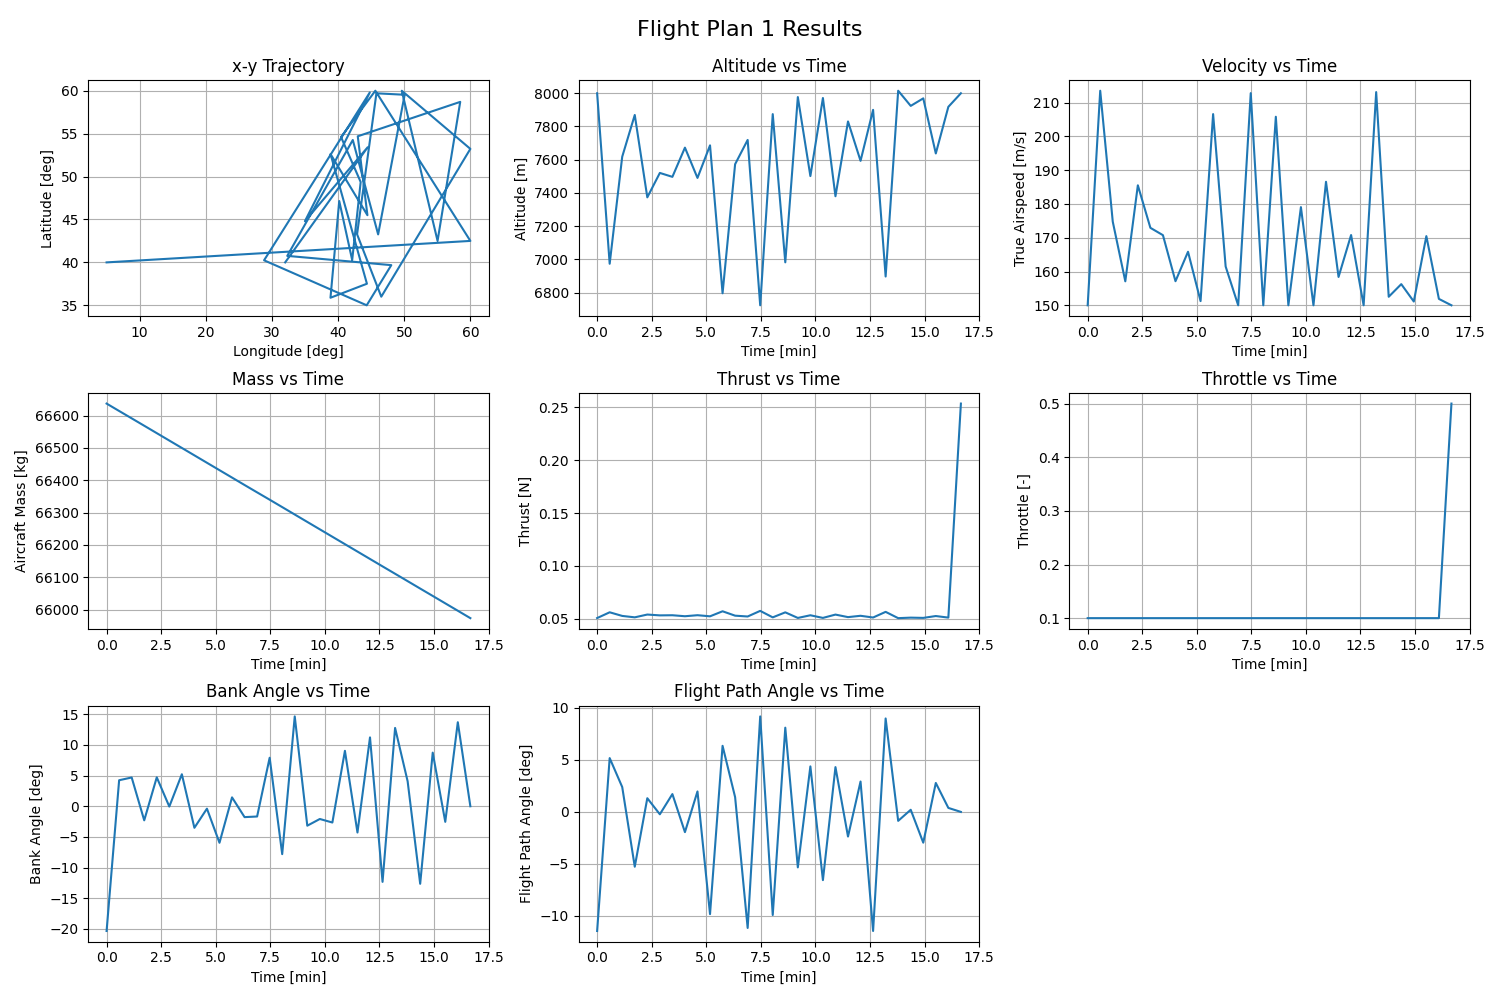
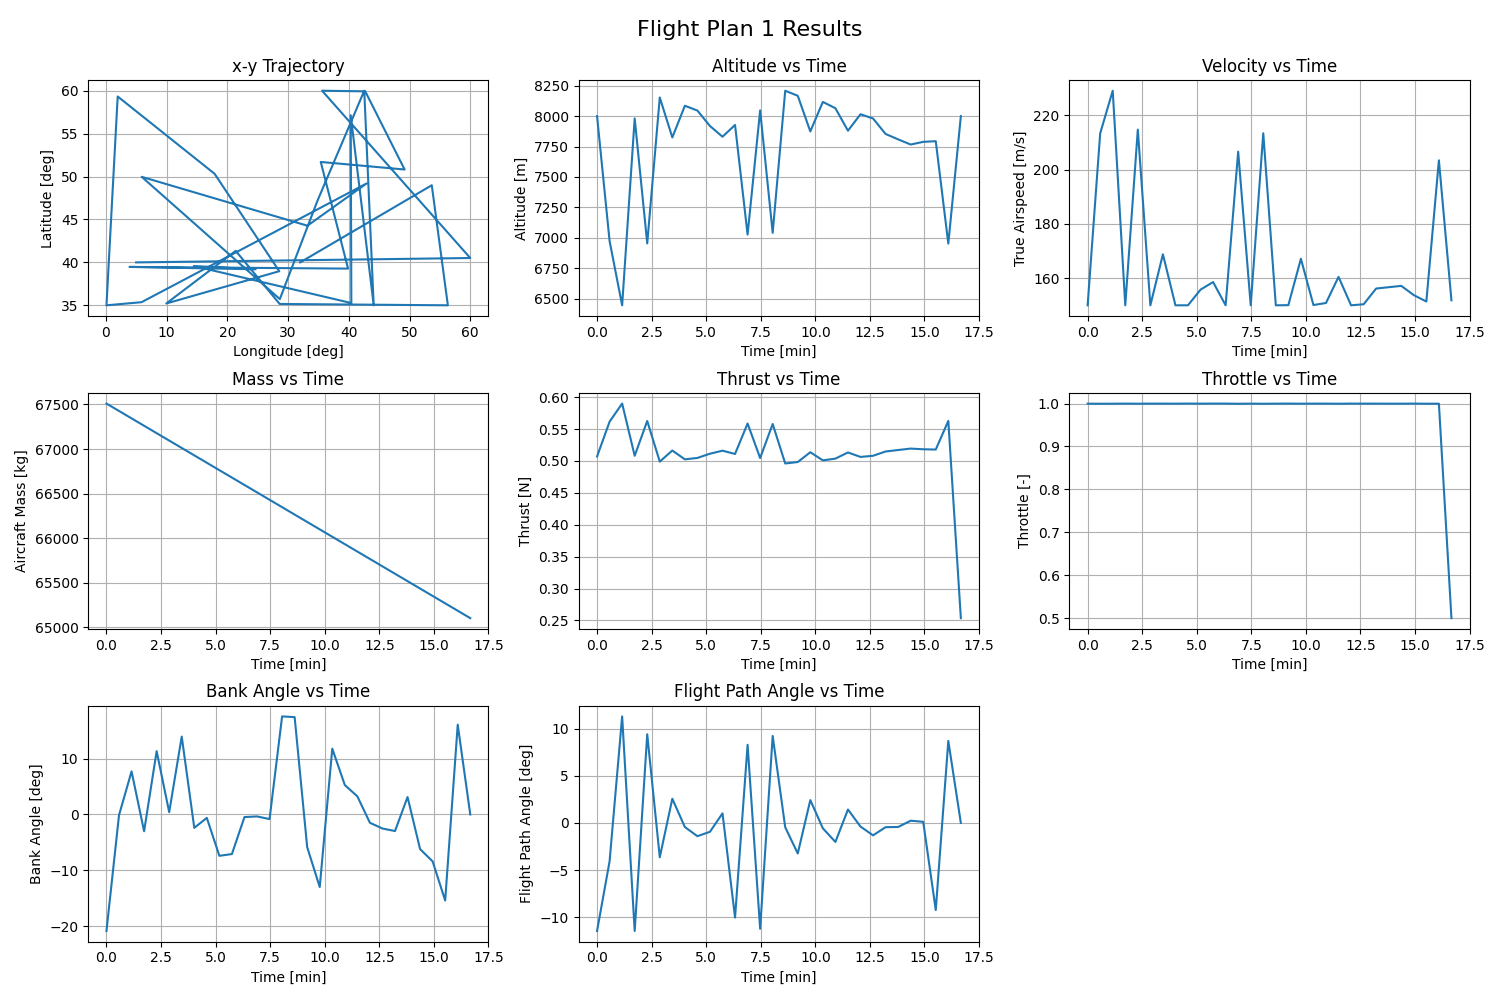
fix

diff --git a/PMP.py b/PMP.py
@@ -7,45 +7,45 @@ class AircraftModel:
     def __init__(self):
         self.g = 9.81
         self.rho_0 = 1.225
-        
+
         self.S = 124.65
         self.C_D0 = 0.025452
         self.k = 0.035815
-        
+
         self.Cf1 = 0.92958
         self.Cf2 = 0.70057
         self.Cf3 = 1068.1
-        
+
         self.CT1 = 0.95
         self.CT2_1 = 146590
         self.CT2_2 = 53872
         self.CT2_3 = 3.0453e-11
-        
+
         self.wx_coef = np.array([-21.151, 10.0039, 1.1081, -0.5239, -0.1297, -0.006, 0.0073, 0.0066, -0.0001])
         self.wy_coef = np.array([-65.3035, 17.6148, 1.0855, -0.7001, -0.5508, -0.003, 0.0241, 0.0064, -0.000227])
-    
+
     def air_density(self, h):
         return self.rho_0 * (1 - (2.2257e-5) * h) ** 4.2586
-    
+
     def lift_coefficient(self, m, rho, v, mu):
         return (2 * m * self.g) / (rho * self.S * v**2 * np.cos(mu))
-    
+
     def drag_coefficient(self, C_L):
         return self.C_D0 + self.k * C_L**2
-    
+
     def thrust_max(self, h):
         return self.CT1 * (1 - (3.28 * h) / self.CT2_2 + self.CT2_3 * (3.28 * h)**2)
-    
+
     def eta(self, v):
         return (self.Cf1 / 60000) * (1 + (1.943 * v) / self.Cf2)
-    
+
     def fuel_flow(self, delta, thr_max, eta):
         return delta * thr_max * eta * self.Cf1
-    
+
     def wind_speed(self, lon, lat):
         c_x = self.wx_coef
         c_y = self.wy_coef
-        
+
         terms = [
             1,
             lon,
@@ -57,36 +57,35 @@ class AircraftModel:
             lon * lat**2,
             lon**2 * lat**2
         ]
-        
+
         W_x = sum(c_x[i] * terms[i] for i in range(len(terms)))
         W_y = sum(c_y[i] * terms[i] for i in range(len(terms)))
-        
+
         return W_x, W_y
-    
+
     def dynamics(self, t, state, controls):
         x, y, h, v, psi, m = state
         gamma, mu, delta = controls
-        
+
         rho = self.air_density(h)
         W_x, W_y = self.wind_speed(x, y)
-        
+
         C_L = self.lift_coefficient(m, rho, v, mu)
         C_D = self.drag_coefficient(C_L)
-        
+
         thr_max = self.thrust_max(h)
         thrust = delta * thr_max
         eta_val = self.eta(v)
         f = self.fuel_flow(delta, thr_max, eta_val)
-        
+
         x_dot = v * np.cos(psi) * np.cos(gamma) + W_x
         y_dot = v * np.sin(psi) * np.cos(gamma) + W_y
         h_dot = v * np.sin(gamma)
         v_dot = (thrust / m) - self.g * np.sin(gamma) - (C_D * self.S * rho * v**2) / (2 * m)
         psi_dot = (C_L * self.S * rho * v) / (2 * m) * np.sin(mu) / np.cos(gamma)
         m_dot = -f
-        
-        return [x_dot, y_dot, h_dot, v_dot, psi_dot, m_dot]
 
+        return [x_dot, y_dot, h_dot, v_dot, psi_dot, m_dot]
 
 class DirectCollocation:
     def __init__(self, aircraft_model, initial_state, target_state, n_nodes=20):
@@ -94,12 +93,13 @@ class DirectCollocation:
         self.x0 = initial_state
         self.xf = target_state
         self.n_nodes = n_nodes
-        
+
         self.gamma_bounds = (-0.2, 0.2)
         self.mu_bounds = (-np.pi/4, np.pi/4)
         self.delta_bounds = (0.1, 1.0)
-        
-        self.tf_guess = 3600  # seconds (1 hour)
+
+        self.tf_guess = 1000  # daha gerçekçi uçuş süresi tahmini
+
         
     def setup_optimization(self):
         n = self.n_nodes
@@ -173,17 +173,17 @@ class DirectCollocation:
         n = self.n_nodes
         tf = x[-1]
         dt = tf / (n - 1)
-        
-        # Calculate cost (time + fuel)
-        cost = 0.05 * tf  # Time cost
-        
-        # Add fuel cost
+
+        cost = 0.05 * tf
+
         for i in range(n-1):
-            idx_start = i * 9
-            m_i = x[idx_start + 5]
-            m_next = x[idx_start + 9 + 5]
-            cost += 0.05 * (m_i - m_next)  # Fuel consumption cost
-        
+            idx = i * 9
+            m_i = x[idx + 5]
+            m_next = x[idx + 9 + 5]
+            delta_i = x[idx + 8]
+            cost += 0.05 * (m_i - m_next)
+            cost += 10.0 * (1.0 - delta_i)**2
+
         return cost
     
     def constraint_function(self, x):
